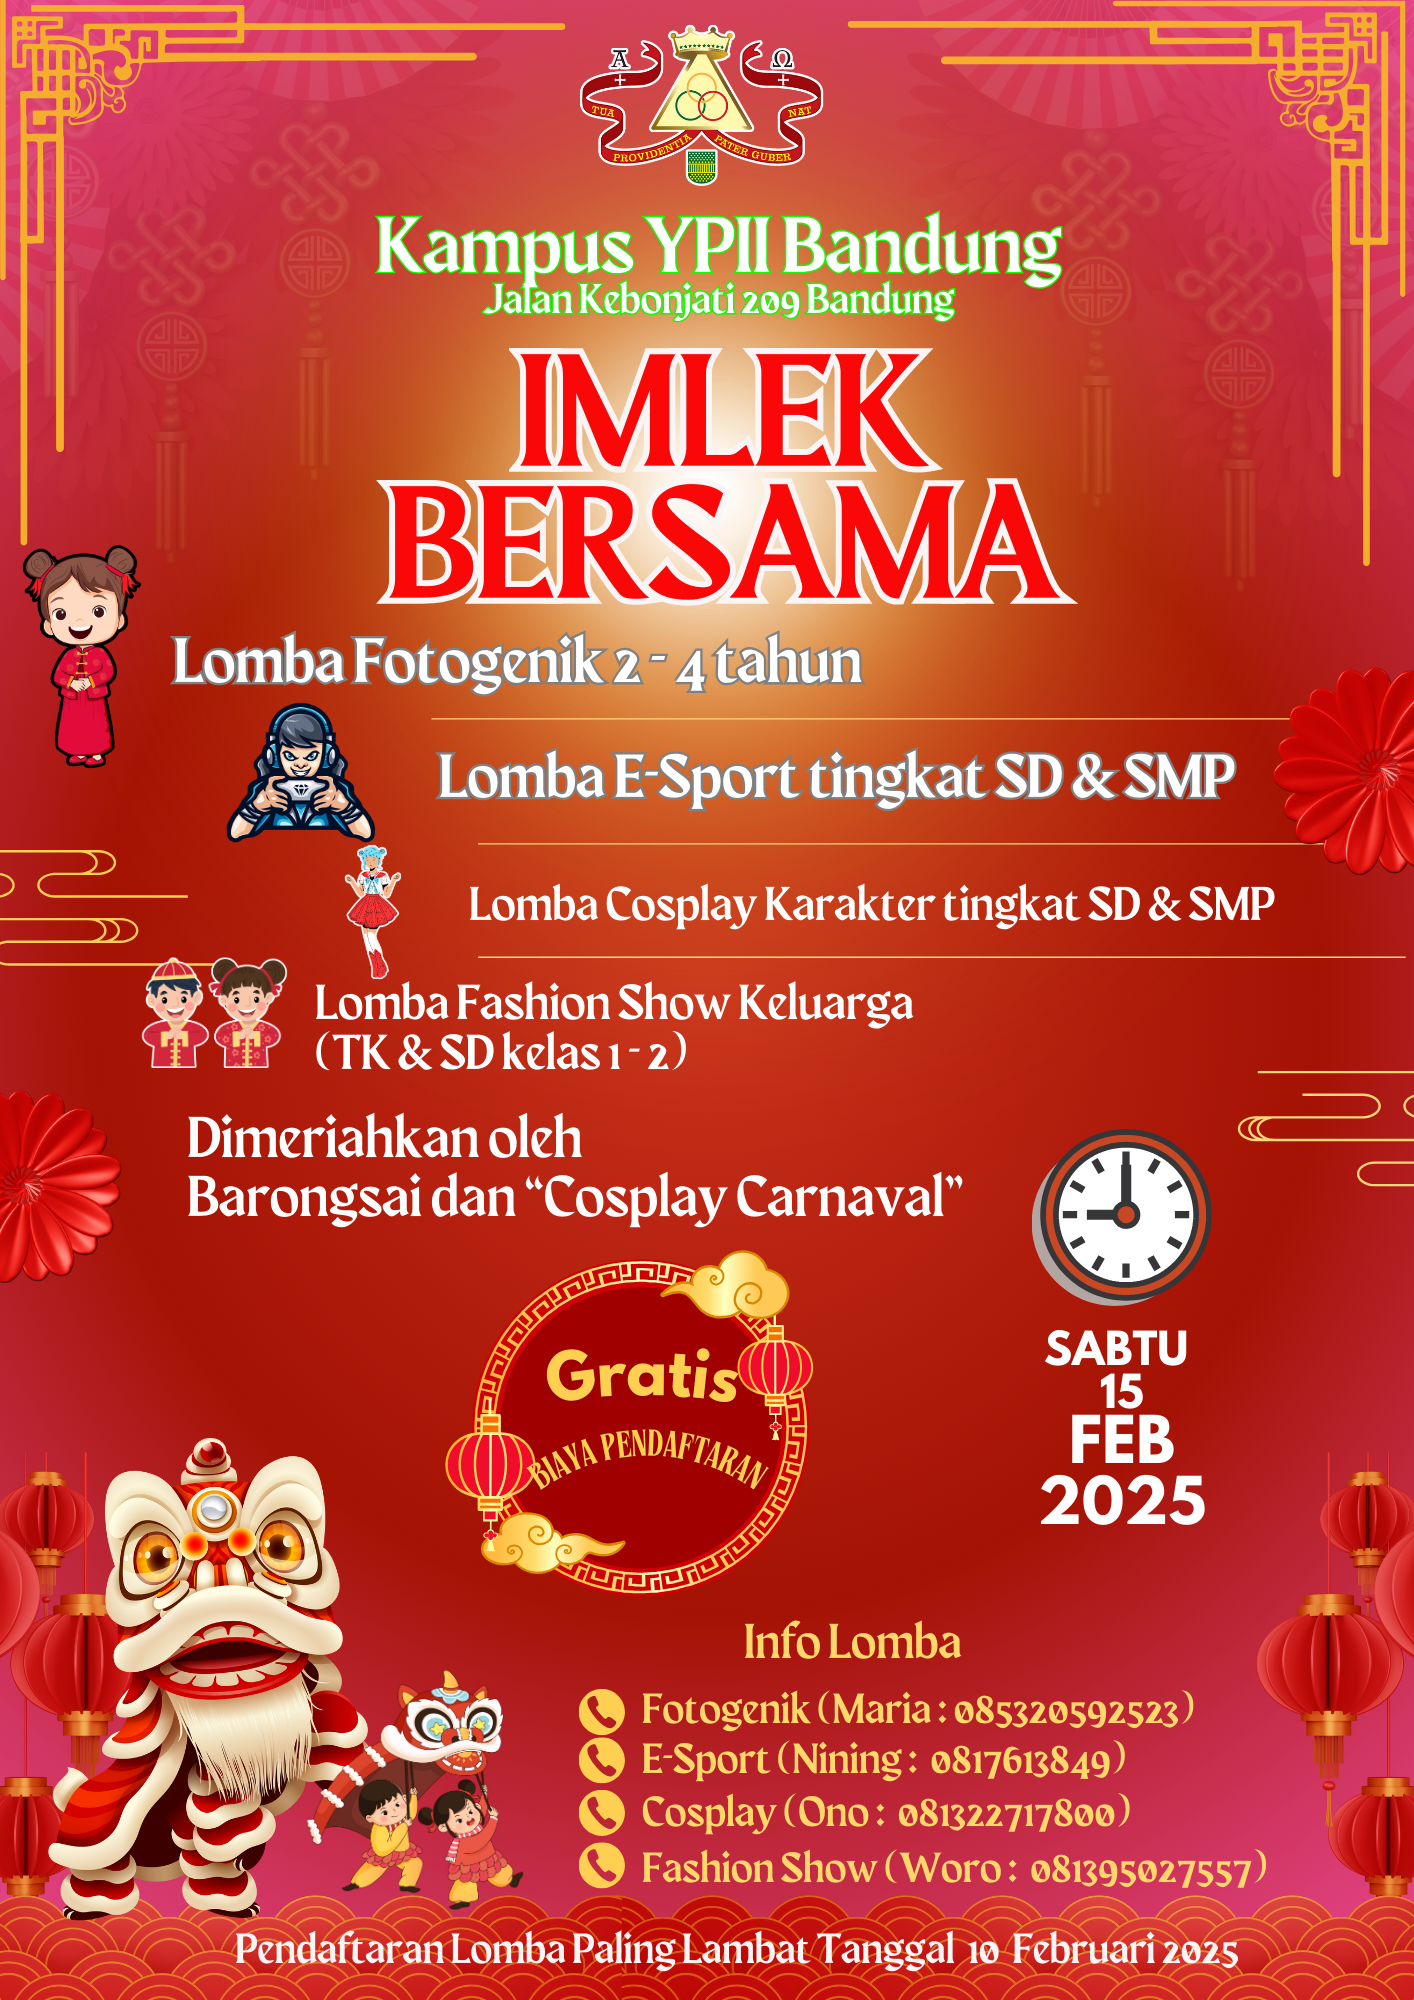
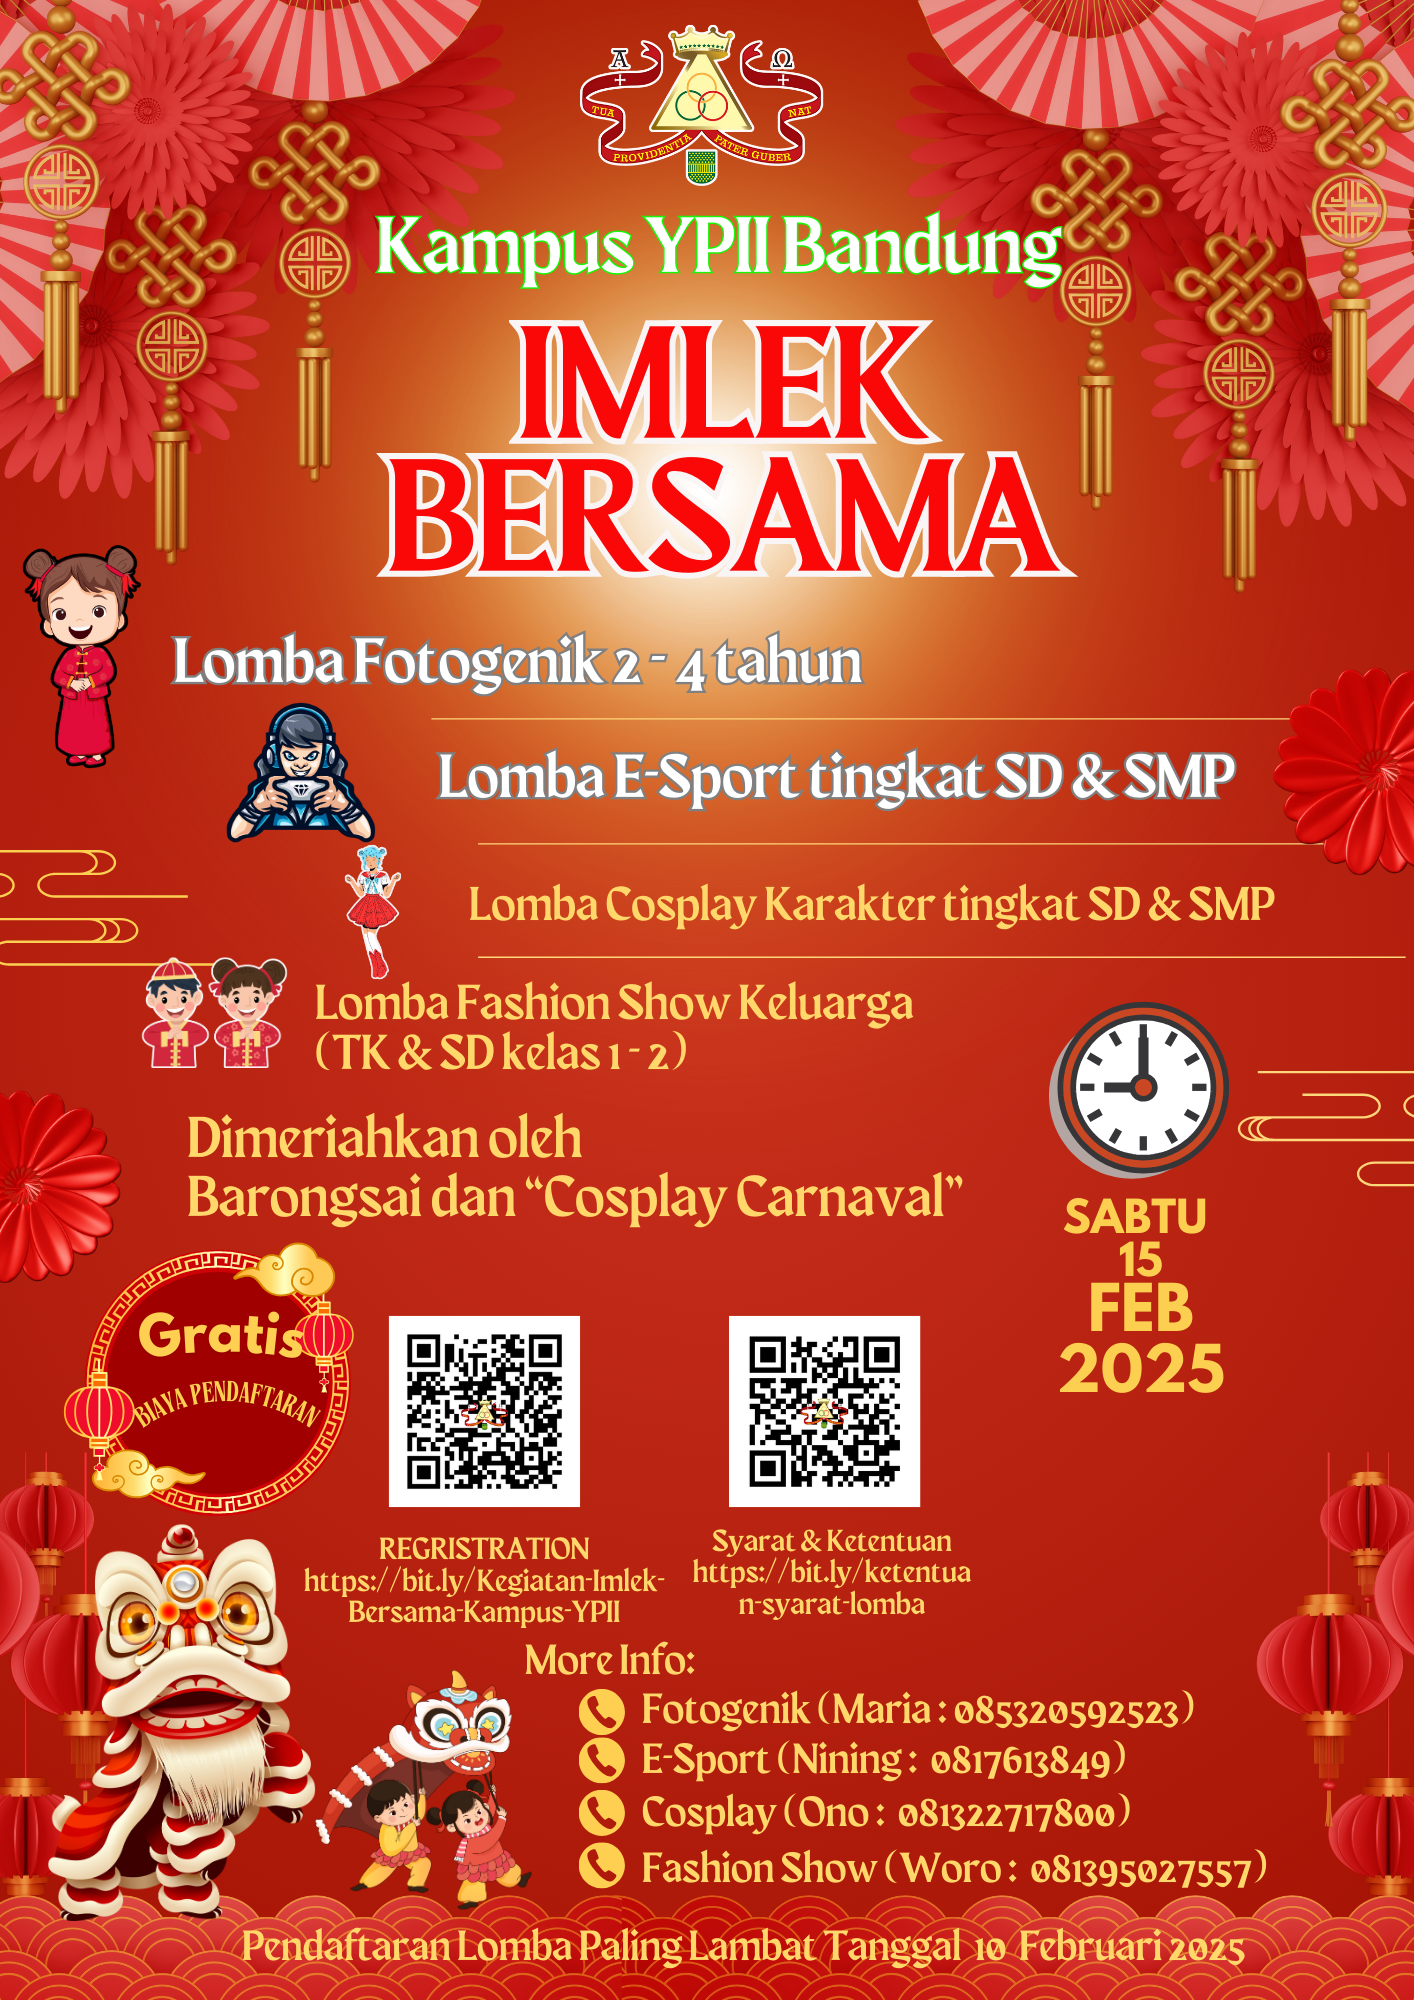
add poster

diff --git a/src/App.tsx b/src/App.tsx
@@ -66,80 +66,107 @@ function App() {
 
       {/* Competition Section */}
       <div className="py-20 bg-white">
-        <div className="container mx-auto px-4">
-          <h2 className="text-4xl font-bold text-red-800 text-center mb-16">
-            Kategori Perlombaan
-          </h2>
-          <div className="grid md:grid-cols-2 lg:grid-cols-4 gap-8">
-            <div className="bg-red-50 p-6 rounded-xl shadow-lg">
-              <h3 className="text-xl font-bold text-red-800 mb-4">Lomba Fotogenik</h3>
-              <p className="text-gray-700 mb-4">Untuk usia 2-4 tahun</p>
-              <div className="flex items-center text-gray-600">
-                <Phone className="w-4 h-4 mr-2" />
-                <a 
-                    href="https://wa.me/6285320592523" 
-                    target="_blank" 
-                    rel="noopener noreferrer"
-                    className="text-blue-500 hover:underline"
-                  >
-                    Maria: 085320592523
-                  </a>
+      <div className="container mx-auto px-4">
+        <h2 className="text-4xl font-bold text-red-800 text-center mb-16">
+          Kategori Perlombaan
+        </h2>
+        <div className="grid md:grid-cols-2 lg:grid-cols-4 gap-8">
+          <div className="bg-red-50 p-6 rounded-xl shadow-lg">
+            <h3 className="text-xl font-bold text-red-800 mb-4">Lomba Fotogenik</h3>
+            <p className="text-gray-700 mb-4">Untuk usia 2-4 tahun</p>
+            <div className="flex items-center text-gray-600">
+              <Phone className="w-4 h-4 mr-2" />
+              <a 
+                href="https://wa.me/6285320592523" 
+                target="_blank" 
+                rel="noopener noreferrer"
+                className="text-blue-500 hover:underline"
+              >
+                Maria: 085320592523
+              </a>
+            </div>
+          </div>
 
-              </div>
+          <div className="bg-red-50 p-6 rounded-xl shadow-lg">
+            <h3 className="text-xl font-bold text-red-800 mb-4">Lomba E-Sport</h3>
+            <p className="text-gray-700 mb-4">Tingkat SD & SMP</p>
+            <div className="flex items-center text-gray-600">
+              <Phone className="w-4 h-4 mr-2" />
+              <a 
+                href="https://wa.me/62817613849" 
+                target="_blank" 
+                rel="noopener noreferrer"
+                className="text-blue-500 hover:underline"
+              >
+                Nining: 0817613849
+              </a>
             </div>
-            <div className="bg-red-50 p-6 rounded-xl shadow-lg">
-              <h3 className="text-xl font-bold text-red-800 mb-4">Lomba E-Sport</h3>
-              <p className="text-gray-700 mb-4">Tingkat SD & SMP</p>
-              <div className="flex items-center text-gray-600">
-                <Phone className="w-4 h-4 mr-2" />
-                <a 
-                    href="https://wa.me/62817613849" 
-                    target="_blank" 
-                    rel="noopener noreferrer"
-                    className="text-blue-500 hover:underline"
-                  >
-                    Nining: 0817613849
-                  </a>
-              </div>
-            </div>
-            <div className="bg-red-50 p-6 rounded-xl shadow-lg">
-              <h3 className="text-xl font-bold text-red-800 mb-4">Lomba Cosplay Karakter</h3>
-              <p className="text-gray-700 mb-4">Tingkat SD & SMP</p>
-              <div className="flex items-center text-gray-600">
-                <Phone className="w-4 h-4 mr-2" />
+          </div>
 
-                <a 
-                    href="https://wa.me/6281322717800" 
-                    target="_blank" 
-                    rel="noopener noreferrer"
-                    className="text-blue-500 hover:underline"
-                  >
-                    Ono: 081322717800
-                  </a>
-          
-              </div>
+          <div className="bg-red-50 p-6 rounded-xl shadow-lg">
+            <h3 className="text-xl font-bold text-red-800 mb-4">Lomba Cosplay Karakter</h3>
+            <p className="text-gray-700 mb-4">Tingkat SD & SMP</p>
+            <div className="flex items-center text-gray-600">
+              <Phone className="w-4 h-4 mr-2" />
+              <a 
+                href="https://wa.me/6281322717800" 
+                target="_blank" 
+                rel="noopener noreferrer"
+                className="text-blue-500 hover:underline"
+              >
+                Ono: 081322717800
+              </a>
             </div>
-            <div className="bg-red-50 p-6 rounded-xl shadow-lg">
-              <h3 className="text-xl font-bold text-red-800 mb-4">Lomba Fashion Show Keluarga</h3>
-              <p className="text-gray-700 mb-4">TK & SD kelas 1-2</p>
-              <div className="flex flex-col space-y-2 text-gray-600">
-                <div className="flex items-center">
-                  <Phone className="w-4 h-4 mr-2" />
-                  <a 
-                    href="https://wa.me/6281395027557" 
-                    target="_blank" 
-                    rel="noopener noreferrer"
-                    className="text-blue-500 hover:underline"
-                  >
-                    Woro: 081395027557
-                  </a>
-                </div>
-                
+          </div>
+
+          <div className="bg-red-50 p-6 rounded-xl shadow-lg">
+            <h3 className="text-xl font-bold text-red-800 mb-4">Lomba Fashion Show Keluarga</h3>
+            <p className="text-gray-700 mb-4">TK & SD kelas 1-2</p>
+            <div className="flex flex-col space-y-2 text-gray-600">
+              <div className="flex items-center">
+                <Phone className="w-4 h-4 mr-2" />
+                <a 
+                  href="https://wa.me/6281395027557" 
+                  target="_blank" 
+                  rel="noopener noreferrer"
+                  className="text-blue-500 hover:underline"
+                >
+                  Woro: 081395027557
+                </a>
               </div>
             </div>
           </div>
         </div>
       </div>
+    </div>
+
+    {/* SECTION REGISTRATION */}
+    <div className="py-16 bg-gray-100">
+      <div className="container mx-auto px-4 text-center">
+        <h2 className="text-4xl font-bold text-red-800 mb-6">REGISTRATION</h2>
+        
+        <p className="text-lg text-gray-700 mb-4">Silakan daftar melalui link berikut:</p>
+        <a 
+          href="https://bit.ly/Kegiatan-Imlek-Bersama-Kampus-YPII"
+          target="_blank"
+          rel="noopener noreferrer"
+          className="text-white bg-red-600 hover:bg-red-700 px-6 py-3 rounded-full text-lg font-semibold transition-all transform hover:scale-105"
+        >
+          Daftar Sekarang
+        </a>
+
+        <p className="text-lg text-gray-700 mt-6">Baca syarat & ketentuan lomba di sini:</p>
+        <a 
+          href="https://bit.ly/ketentuan-syarat-lomba"
+          target="_blank"
+          rel="noopener noreferrer"
+          className="text-blue-500 hover:underline text-lg font-semibold"
+        >
+          Syarat & Ketentuan
+        </a>
+      </div>
+    </div>
+
 
       {/* Features Section */}
       <div className="py-20 bg-red-50">
